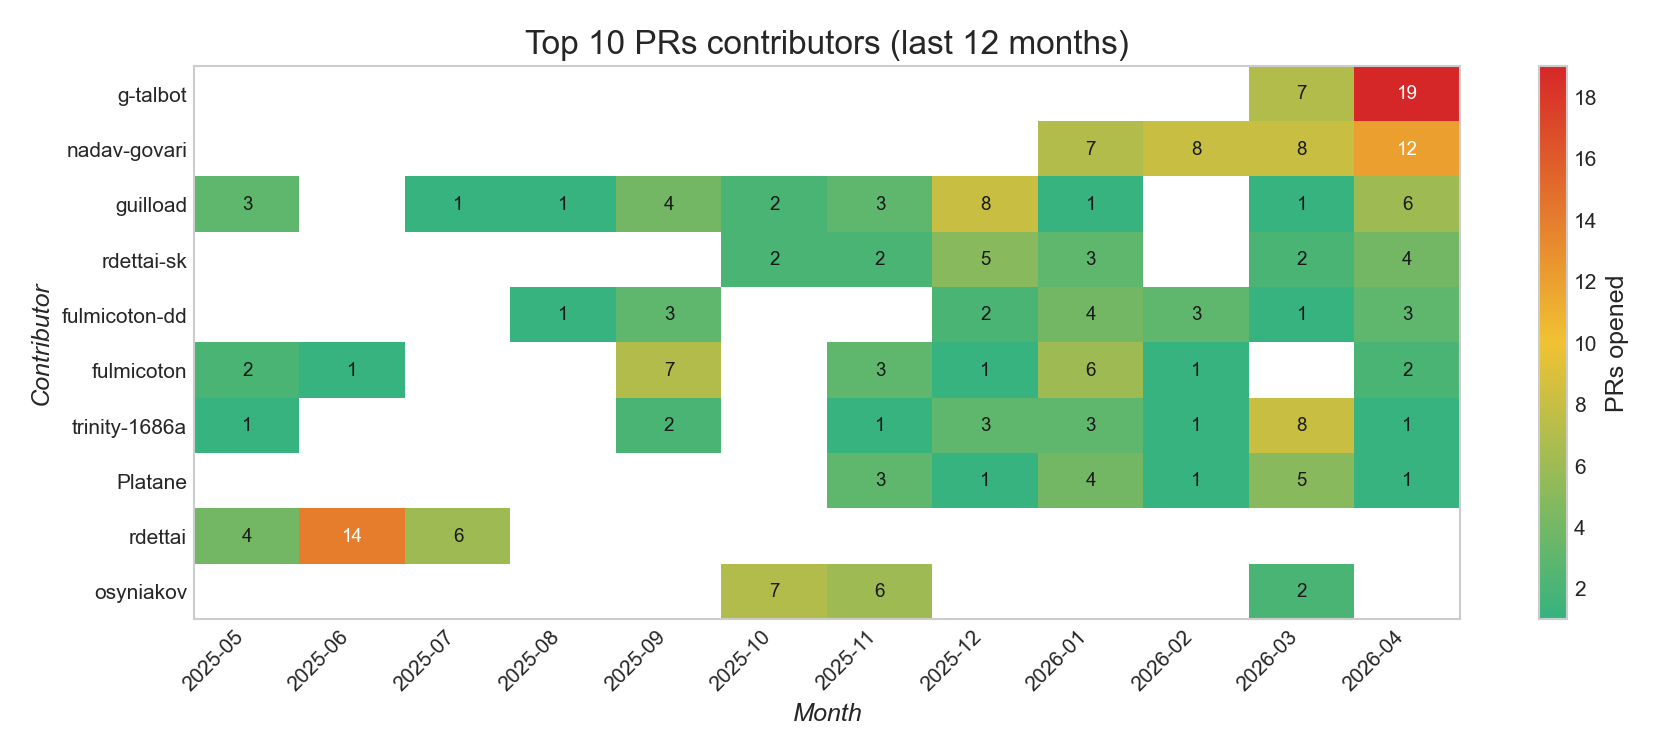
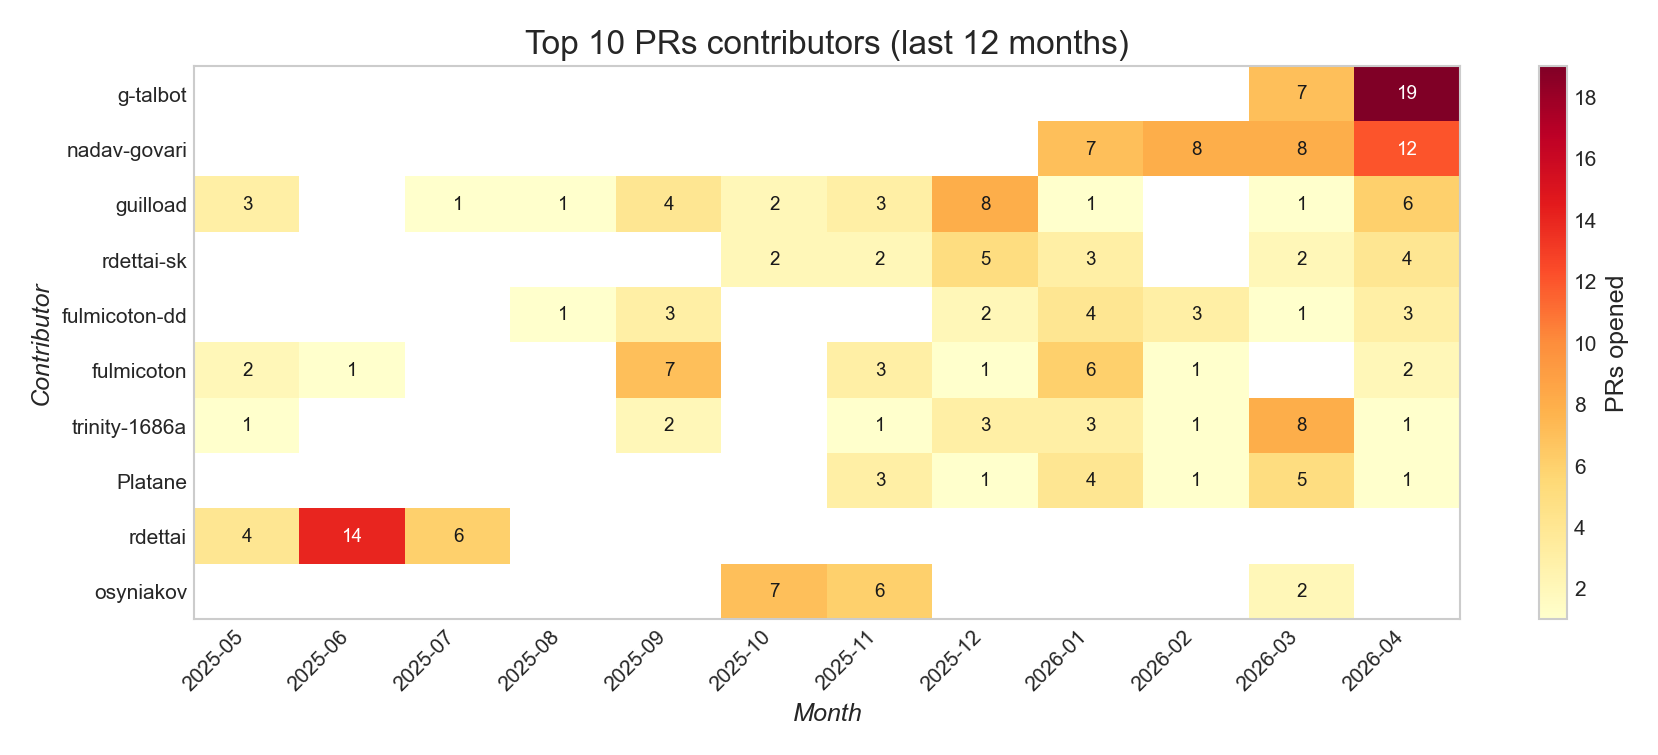
Revert heatmap colormap to YlOrRd, keep zero-cell masking
The green-yellow-red gradient didn't read as well as the original. Keep
the masked-zero-cells change so empty months still show plain white
instead of a yellow tint.

diff --git a/scripts/util/plot.py b/scripts/util/plot.py
@@ -7,7 +7,6 @@ import matplotlib.pyplot as plt
 import numpy as np
 import numpy.ma as ma
 import pandas as pd
-from matplotlib.colors import LinearSegmentedColormap
 from matplotlib.patches import FancyBboxPatch
 from matplotlib.ticker import MaxNLocator
 
@@ -615,11 +614,9 @@ def plot_contributor_heatmap(path, table, output_path, top_n=10, window_months=1
         pivot = pivot.sort_values(by=[last_month, "_total"], ascending=False).drop(columns="_total")
 
         fig, ax = plt.subplots(figsize=(12, 5))
-        # Green→yellow→red gradient; zero cells masked so the plain axes
-        # background shows through instead of the colormap's low end.
-        cmap = LinearSegmentedColormap.from_list(
-            "green_red", ["#36B37E", "#F1C232", "#D62728"]
-        )
+        # Zero cells masked so the plain axes background shows through
+        # instead of the colormap's low end tint.
+        cmap = plt.get_cmap("YlOrRd").copy()
         cmap.set_bad(color="white")
         masked = ma.masked_where(pivot.values == 0, pivot.values)
         im = ax.imshow(masked, aspect="auto", cmap=cmap)
